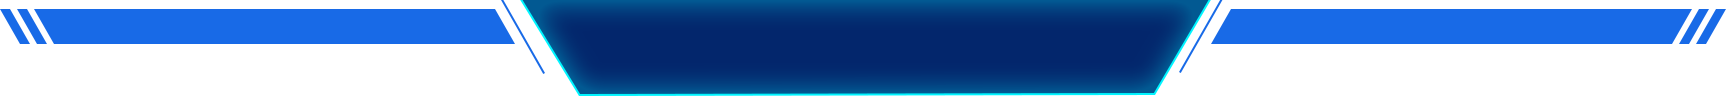
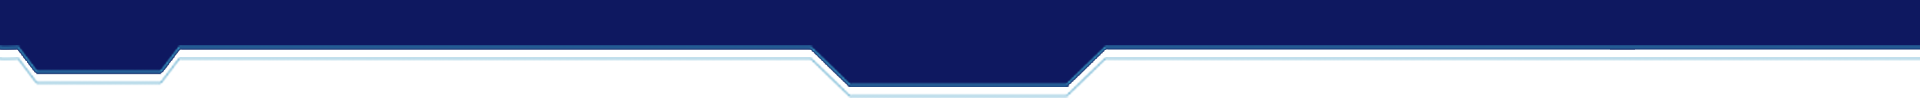
添加园区介绍管理界面头部信息

diff --git a/src/app/shared/businessComp/login-manage-head/login-manage-head.component.ts b/src/app/shared/businessComp/login-manage-head/login-manage-head.component.ts
@@ -9,13 +9,21 @@ import { localUrl } from '@env/environment';
 })
 export class LoginManageHeadComponent implements OnInit {
   @Input() headName: string;
-  constructor() { }
 
-  goManagePage(){
+  constructor() {
+  }
+
+  @Input() bg;
+  currentBg = `url(../../../../assets/imgs/login-manage/one-page-header.png) center no-repeat, #000949`;
+
+  goManagePage() {
     window.open(localUrl + '/hazard/login-manage/park-introduction-manage');
   }
 
   ngOnInit() {
+    if (this.bg) {
+      this.currentBg = this.bg;
+    }
   }
 
 }

diff --git a/src/app/routes/login-manage/park-introduct/park-introduct-manage/park-introduct-manage.component.ts b/src/app/routes/login-manage/park-introduct/park-introduct-manage/park-introduct-manage.component.ts
@@ -3,11 +3,14 @@ import { Component, OnInit } from '@angular/core';
 @Component({
   selector: 'park-introduct-manage',
   templateUrl: './park-introduct-manage.component.html',
-  styles: []
+  styles: [],
 })
 export class ParkIntroductManageComponent implements OnInit {
+  currentTopBg: string;
 
-  constructor() { }
+  constructor() {
+    this.currentTopBg = `url(../../../../assets/imgs/login-manage/manage-top.png) center no-repeat, #000949`;
+  }
 
   ngOnInit() {
   }

diff --git a/src/app/shared/businessComp/login-manage-head/login-manage-head.component.html b/src/app/shared/businessComp/login-manage-head/login-manage-head.component.html
@@ -1,3 +1,3 @@
-<header>{{headName}}
-  <button class="manage-btn" nz-button (click)="goManagePage()"  nzType="link">管理界面</button>
+<header [ngStyle]="{background:currentBg}">{{headName}}
+  <button *ngIf="!bg" class="manage-btn" nz-button (click)="goManagePage()" nzType="link">管理界面</button>
 </header>

diff --git a/src/app/shared/businessComp/login-manage-head/login-manage-head.component.scss b/src/app/shared/businessComp/login-manage-head/login-manage-head.component.scss
@@ -1,5 +1,5 @@
 header {
-  background: url(../../../../assets/imgs/login-manage/one-page-header.png) center no-repeat, #000949;
+  // background: url(../../../../assets/imgs/login-manage/one-page-header.png) center no-repeat, #000949;
   width: 100%;
   height: 96px;
   color: #00FFFB;

diff --git a/src/app/routes/login-manage/park-introduct/park-introduct-manage/park-introduct-manage.component.html b/src/app/routes/login-manage/park-introduct/park-introduct-manage/park-introduct-manage.component.html
@@ -1,1 +1,1 @@
-<p>park-introduct-manage works!</p>
+<login-manage-head headName="园区介绍管理" [bg]="currentTopBg"></login-manage-head>
